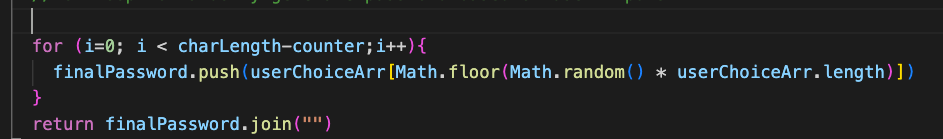
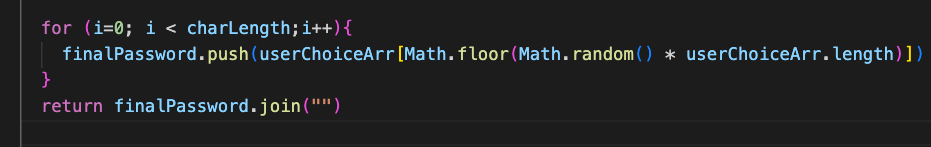
modified readme.md file

Changed region(s): [[0.0, 0.0, 0.9968, 1.0], [0.2492, 0.0, 0.3115, 0.0288]]

diff --git a/script.js b/script.js
@@ -6,14 +6,15 @@ var upperCaseArr = ['A','B','C','D','E','F','G','H','I','J','K','L','M','N','O',
 var lowerCaseArr = ['a','b','c','d','e','f','g','h','i','j','k','l','m','n','o','p','q','r','s','t','u','v','w','x','y','z'];
 // Creating an Array specialCharArr which will store special characters
 var specialCharArr = [' ', '!', '"', '#', '$', '%', '&', "'", '(', ')', '*', '+', ',', '-', '.', '/', ':', ';', '<', '=', '>', '?', '@', '[', ']', '^', '_', '`', '{', '|', '}', '~'];
+
 function generatePassword(){
   let finalPassword=[];
   let userChoiceArr=[];
-   //The isNaN() function determines whether a value is NaN or Not a Number!'
-  var counter = 0;//keeping track of how many times we add characters before we get to the for loop
+  // var counter = 0;//keeping track of how many times we add characters before we get to the for loop
   //prompt for character length
   var charLength = prompt("How many characters you want your password to be?(should be 8-128)characters");
-  //if its not a number or less than 8 or greater than 128 characters, throw an alert
+  //The isNaN() function determines whether a value is NaN or Not a Number!'
+  //if it's not a number or less than 8 or greater than 128 characters, throw an alert
   if (isNaN(charLength)|| charLength < 8 || charLength >128){
     alert("should be a number between 8 - 128.Let's try again!!");
     //return to generatePassword function
@@ -33,12 +34,10 @@ function generatePassword(){
     userChoiceArr = userChoiceArr.concat(numberArr);
   }
   //for loop to randomly generate password based on user inputs
-
   for (i=0; i < charLength;i++){
     finalPassword.push(userChoiceArr[Math.floor(Math.random() * userChoiceArr.length)])
   }
   return finalPassword.join("")//Converts an array into the string and it will not change the original array
-
 }
 // Write password to the #password input
 function writePassword() {

diff --git a/README.md b/README.md
@@ -41,7 +41,7 @@ THEN the password is either displayed in an alert or written to the page
 ## What I learned
 - How to write Javascript code for Password generator functionality
 - Create Function, If statememt,For loop,Comparison and logical operators
-- Math.random() used with Math.floor() can be used to return random integers.
+- Math.random() used with Math.floor() used to return random characters.
 
 ### Useful resources
 - [w3schools](https://www.w3schools.com/js/default.asp)
